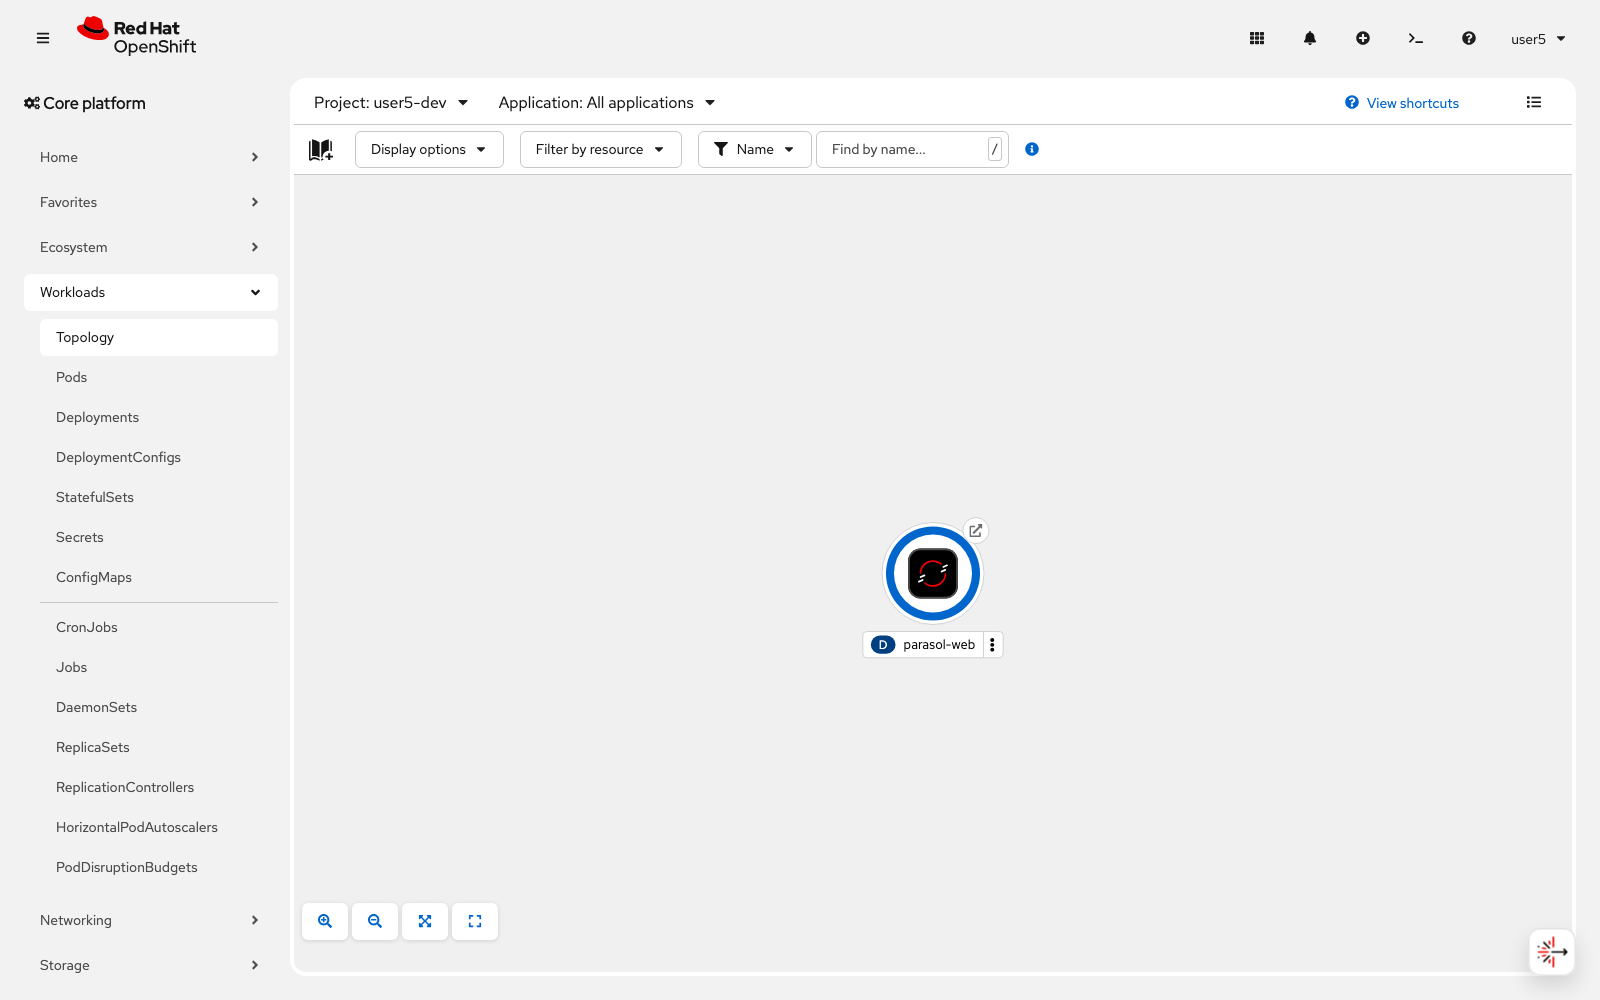
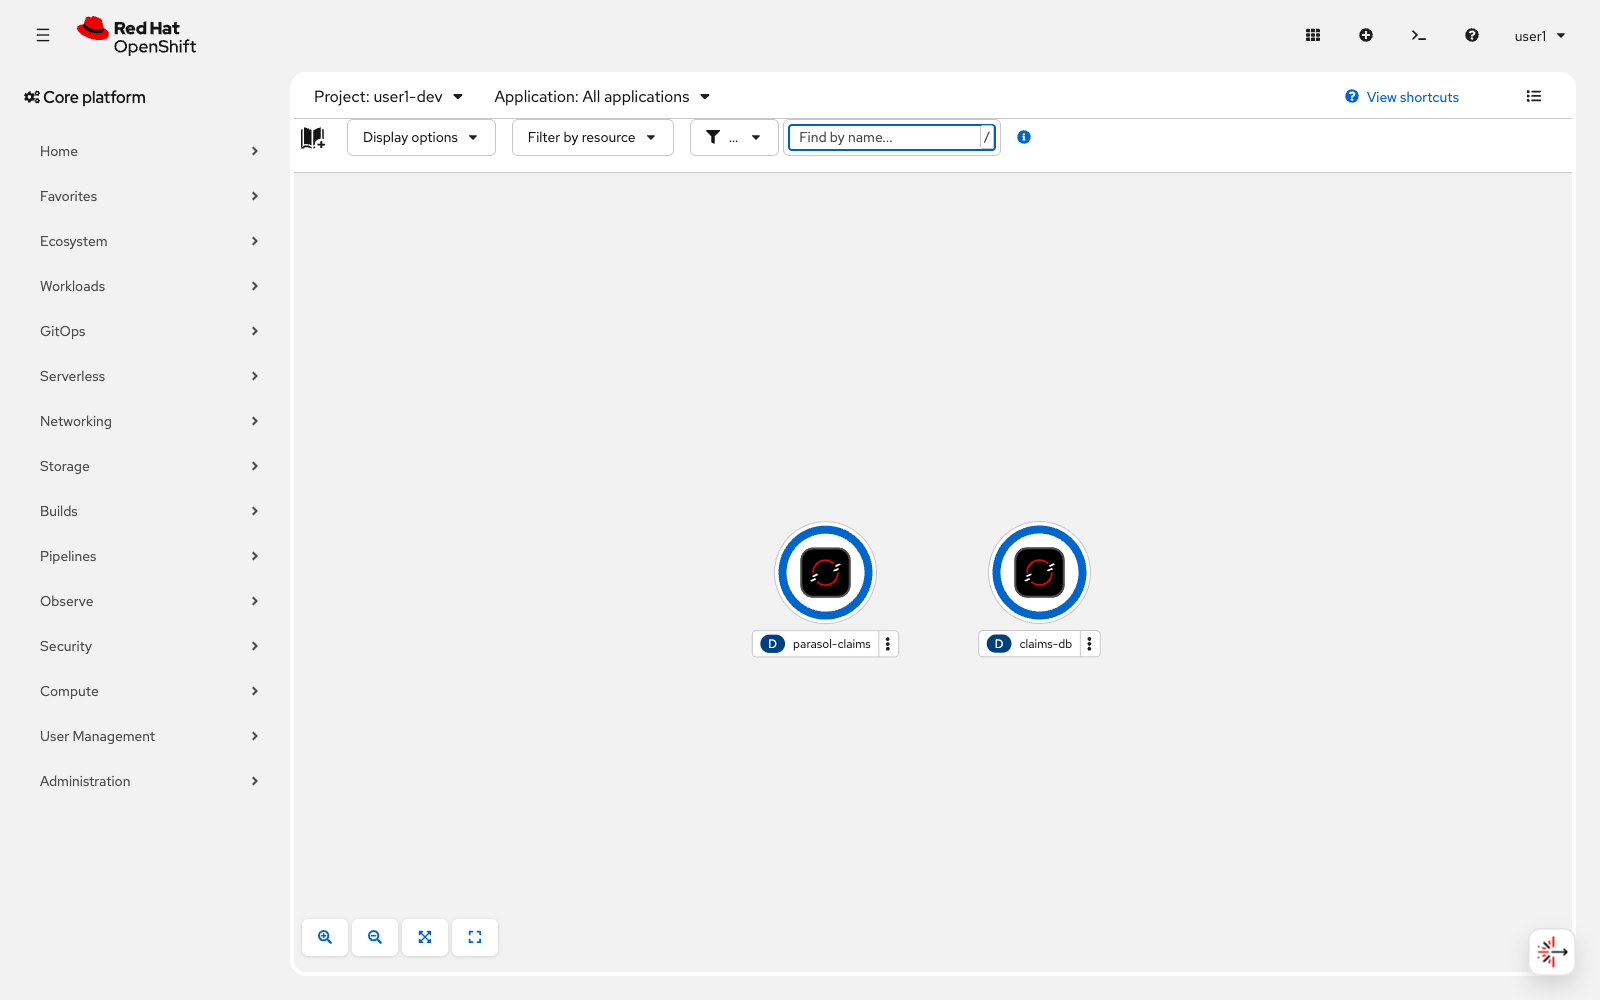
fix(m01): re-shoot the console-landmarks screenshot, and the assert that let a blank one through
Owner review asked for this as user1 on the current nav back on 2026-07-14. Now
captured on 4.22.5 at 1600x1000: topology canvas drawn with parasol-claims and
claims-db, project selector on user1-dev, masthead Quick create, Lightspeed
bubble bottom-right — the four landmarks the caption names.

THE FIRST ATTEMPT PASSED EVERY ASSERT AND WAS UNUSABLE, which is the part worth
recording. Its asserts were ["user1-dev", "Pipelines", "GitOps"] — all three are
NAV text, present the instant the console shell renders, and none of them says
anything about the panel the screenshot is about. So the run cheerfully
photographed an empty topology canvas with a loading spinner, taken seconds after
`ws start` purged the namespace. Same defect class this job file's own header
warns about, committed by the person who wrote the warning.

Fix: assert a workload name. "parasol-claims" and "claims-db" only appear once
the canvas has actually drawn, so a blank panel can no longer be photographed.
settle 10s -> 20s, pre_wait 10s -> 20s.

Every image is still opened and looked at before it is committed. That is what
caught this: the harness reported OK on a picture of nothing.

ALSO FOUND, filed not fixed — build-deliver's solve state does not match its lab.
`ws solve build-deliver` prints "solved for user1 — demo-ready" and exits 0, but
solve-endstate.yaml creates only claims-db + parasol-claims (Secret, Service,
Deployment, Route). It creates NO parasol-notifications and NO parasol-web, while
[…]

diff --git a/content/modules/ROOT/assets/images/platform-orientation/media-manifest.md b/content/modules/ROOT/assets/images/platform-orientation/media-manifest.md
@@ -23,7 +23,7 @@ the newly-enabled Developer perspective, so the nav it shows is stale.
 | 1 | `platform-orientation-01-topology-3pods.png` | ✅ DONE 2026-07-10 | Topology, project `user1-dev`, `parasol-web` scaled to 3 | the Pod donut showing 3/3; the node title; the Open-URL arrow | lab.adoc ex. 3 (scale) |
 | 2 | `platform-orientation-02-deploy-image-dialog.png` | ✅ DONE 2026-07-10 | **Quick create (+) → Container images** form, registry reference pasted and **Validated** | the *Image name from external registry* field, the green *Validated*, the auto-filled Name, Resource type = Deployment; Target port and *Create a route* live under *Advanced options* | lab.adoc ex. 2 (Console tab) |
 | 3 | `platform-orientation-03-lightspeed-answer.png` | ✅ DONE 2026-07-10 | OpenShift Lightspeed panel after asking "Why is my pod restarting?" | the Lightspeed **chat bubble at bottom-right**; the bulleted causes; the suggested `oc` commands; the doc citations | lab.adoc ex. 7 |
-| 4 | `platform-orientation-04-unified-console-landmarks.png` | ❌ RE-CAPTURE as `user1` (owner review 2026-07-14) | Unified console, project `user1-dev` selected, on the CURRENT nav (with the Pipelines/GitOps/ACS plugins present) | (1) project selector on `user1-dev`, (2) masthead **Quick create (+)** menu, (3) Topology under **Workloads**, (4) Lightspeed **chat bubble (bottom-right)**; if the Developer perspective is enabled, include the perspective switcher at the top of the nav. The web-terminal masthead icon is **no longer a landmark** (the lab dropped that step). RE-CAPTURE: pulled 2026-07-28 — the committed shot is stale nav (no Pipelines/GitOps/ACS groups), taken as user5 on a decommissioned cluster; un-embedded from `lab.adoc` (was still embedded despite this row's own `⚠` flag). | lab.adoc ex. 1 |
+| 4 | `platform-orientation-04-unified-console-landmarks.png` | ✅ CAPTURED 2026-07-29 as `user1` on 4.22.5, 1600x1000 — re-shot per the owner review of 2026-07-14. Shows the topology canvas drawn with `parasol-claims` + `claims-db`, all four landmarks present. NOTE the first attempt this session passed every assert and was still unusable: the asserts named only nav text, so it photographed an empty canvas with a loading spinner seconds after `ws start` purged the namespace. The spec now asserts a workload name, which is the only thing that proves the panel actually drew. | Unified console, project `user1-dev` selected, on the CURRENT nav (with the Pipelines/GitOps/ACS plugins present) | (1) project selector on `user1-dev`, (2) masthead **Quick create (+)** menu, (3) Topology under **Workloads**, (4) Lightspeed **chat bubble (bottom-right)**; if the Developer perspective is enabled, include the perspective switcher at the top of the nav. The web-terminal masthead icon is **no longer a landmark** (the lab dropped that step). RE-CAPTURE: pulled 2026-07-28 — the committed shot is stale nav (no Pipelines/GitOps/ACS groups), taken as user5 on a decommissioned cluster; un-embedded from `lab.adoc` (was still embedded despite this row's own `⚠` flag). | lab.adoc ex. 1 |
 
 **4.21 console reality confirmed during the pass (corrections applied to `lab.adoc`):** there is
 **no `+Add` nav item** — the deploy flows (Import YAML / Import from Git / Container images) live
